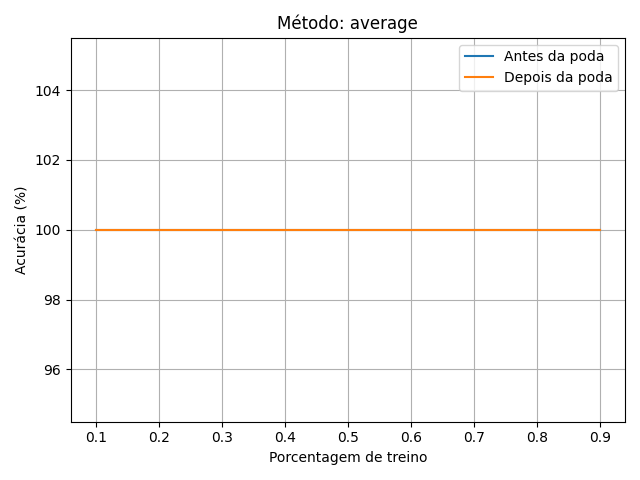
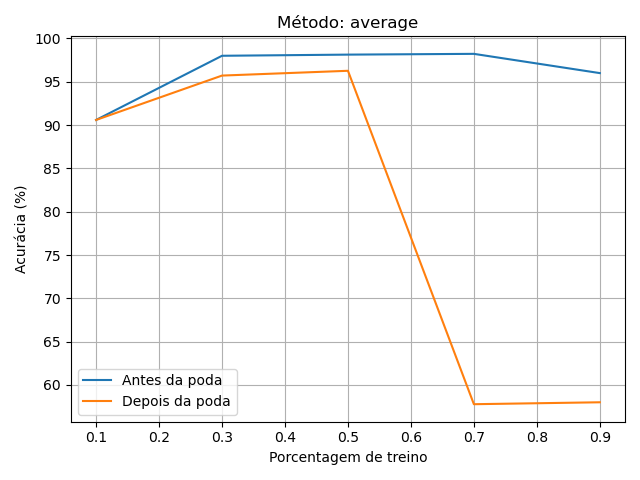
Resolvido bug onde as classificações eram levadas em consideração na separação no c4.5

diff --git a/t2/c45.py b/t2/c45.py
@@ -32,7 +32,7 @@ class c45Node:
         minEntropyThreshold = None
         if len(self.data) == 0:
             return
-        for i in range(len(self.data[0])):
+        for i in range(len(self.data[0])- 1): # -1 para ignorar a classe
             # Ordena os dados para o atributo
             self.data = sorted(self.data, key=lambda x: x[i])
             # Calcula a entropia para cada atributo
@@ -133,7 +133,8 @@ class c45Node:
         left_data = [row for row in self.data if row[attribute] < threshold]
         # Filtra dados com atributo >= threshold
         right_data = [row for row in self.data if row[attribute] >= threshold]
-
+        if len(left_data) == 0 or len(right_data) == 0:
+            return
         self.children = [
             c45Node(data=left_data, lvl=self.lvl+1, maxDepth=self.maxDepth, entropy=entropy1, method=self.method),
             c45Node(data=right_data, lvl=self.lvl+1, maxDepth=self.maxDepth, entropy=entropy2, method=self.method)
